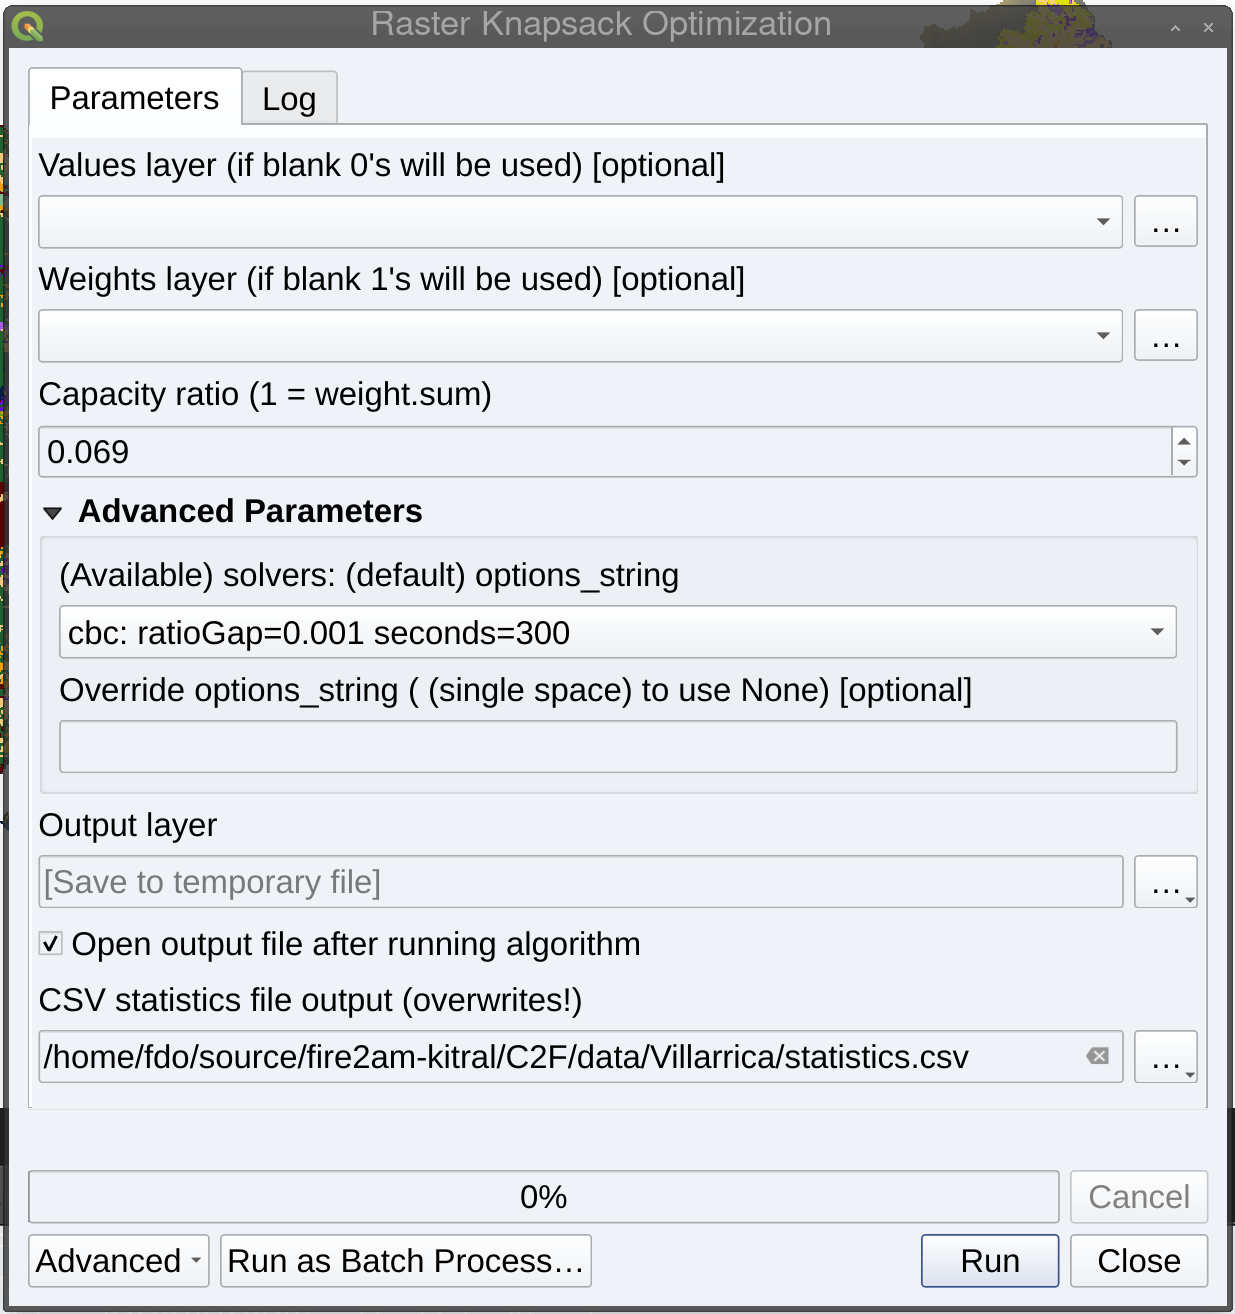
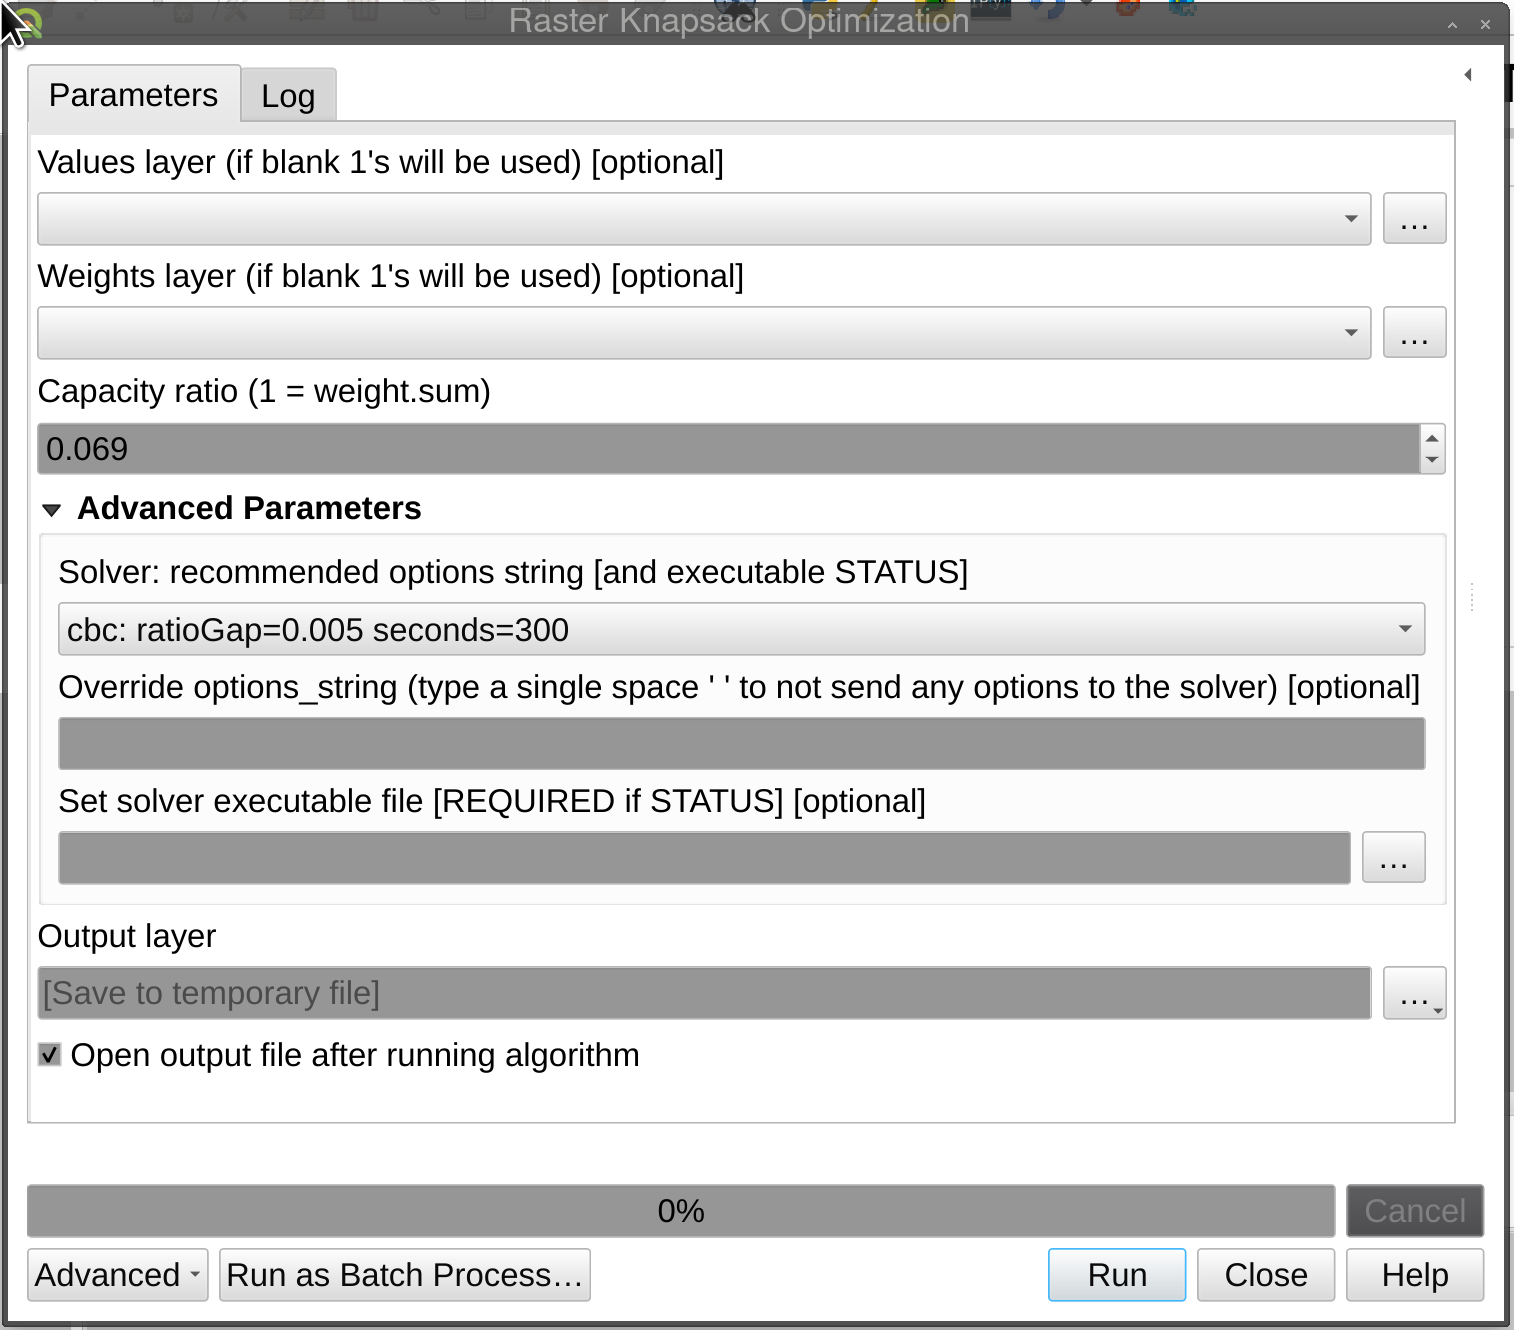
update

diff --git a/docs/FireAnalyticsManagementTools/README.md b/docs/FireAnalyticsManagementTools/README.md
@@ -3,44 +3,64 @@ layout: default
 title: Fire2a QGIS-Toolbox
 nav_order: 3
 has_children: true
+has_toc : false
 ---
+# Fire2a QGIS-Toolbox
 
-     Forest Fires Advanced Analytics & Management Tools
-        
-           QGIS Processing Plugin Template
-                
-            by fire2a.com research centre
+This type of plugins are designed following a data pipeline architecture principle. 
+With clearly delimited components: input, output, algorithm and context; it achieves a better integration with QGIS APIs, providing 3 different interfaces:
+1. A window dialog on the [processing toolbox](https://docs.qgis.org/latest/en/docs/user_manual/processing/toolbox.html) interface
+2. A [command line interface](https://docs.qgis.org/latest/en/docs/user_manual/processing/standalone) using `$ qgis_process`
+3. A python interface that can be used either 
+    on the [QGIS console](#script-in-qgis-console)
+    or as a [standalone](https://raw.githubusercontent.com/fdobad/qgis-processingplugin-template/main/standalone.py) script.
+4. Modeler interface component? (not sure about this one)
 
-                     version=
+The idea behind this architecture is that the user composes its own pipeline, combining different algorithms to achieve their goal. This is a more flexible, reusable, scalable and easier to mantain approach than independent QGIS plugins, where each one is designed to a specific need with custom inputs, outputs and behavior. Making it nearly impossible to use them outside the window dialog mode less combining them.
 
+Currently 
 [This repo](https://github.com/fdobad/qgis-processingplugin-template) is a template for QGIS processing toolbox [plugins](https://plugins.qgis.org).
-
-Its main content is a proof-of-concept integration between QGIS rasters and a knapsack optimization MIP model.
+# Algorithms
+## Raster knapsack optimization
+### Intro
+_A proof-of-concept integration of mathematical programming solvers to model and solve optimization problems with GIS entities._
 
 Users can create a new raster layer that selects the most valuable pixels in a raster, according to a capacity constraint defined by another -optional- raster and a fractional ratio.
 
-This can be achieved in four ways:
-- Graphically on the [processing toolbox](https://docs.qgis.org/latest/en/docs/user_manual/processing/toolbox.html) interface, 
-- On the [command line](https://docs.qgis.org/latest/en/docs/user_manual/processing/standalone) using `$ qgis_process`
-- Or in python scripts [qgis console](#script-in-qgis-console) or [standalone](https://raw.githubusercontent.com/fdobad/qgis-processingplugin-template/main/standalone.py).
-
-Finally several solvers can be used (cbc, glpk, cplex_direct, ipopt, TODO gurobi, scipy), thanks to the MIP being modeled and solved through [pyomo](http://www.pyomo.org). Though is up to the user to install each solver, the plugin checks for availability before displaying them in the solver chooser comboBox. Also a solver options string is optionally configurable (i.e., set precision and time limits)
-
-__Installation instructions [here](./plugin_installation.md)__  
-__QGIS-plugin-repo [link](./plugins.xml)__  
+Several solvers can be used (cbc, glpk, cplex_direct, gurobi, ipopt, NEOS, etc.), thanks to the MIP being modeled and solved through [pyomo](http://www.pyomo.org).
 
 | screenshot |
 | --- |
 |<img src="img/screenshot.png"  alt='cannot load image' height=400px >|
 
+### Detailed description
+By selecting a Values layer and/or a Weights layer, and setting the bound on the total capacity, a layer that maximizes the sum of the values of the selected pixels is created.
+
+The capacity constraint is set up by choosing a ratio (between 0 and 1), that multiplies the sum of all weights (except no-data). Hence 1 selects all pixels that aren't no-data in both layers.
+
+This raster knapsack problem is NP-hard, so a MIP solver engine is used to find "nearly" the optimal solution, because -often- is asymptotically hard to prove the optimal value. So a default gap of 0.5% and a timelimit of 5 minutes cuts off the solver run. The user can experiment with these parameters to trade-off between accuracy, speed and instance size(*). On Windows closing the blank terminal window will abort the run!
+
+By using Pyomo, several MIP solvers can be used: CBC, GLPK, Gurobi, CPLEX or Ipopt; If they're accessible through the system PATH, else the executable file can be selected by the user.
+
+Installation of solvers is up to the user, although the windows version is bundled with CBC unsigned binaries, so their users will face a "Windows protected your PC" warning, please avoid pressing the "Don't run" button, follow the "More info" link, scroll then press "Run anyway".
+
+(*): Complexity can be reduced greatly by rescaling and/or rounding values into integers, or even better coarsing the raster resolution (see gdal translate resolution).
+
+__Installation instructions [here](./plugin_installation.md)__  
+__QGIS-plugin-repo [link](./plugins.xml)__  
+
 # Usage
-## Graphical
+## window dialog
 1. Open QGIS Processing Toolbox (the cog icon)
 2. Type or navigate to: Fire2a > Raster Knapsack Optimization
 3. Select one or two layers, input the capacity ratio
 4. Click Run
 
-## Script in QGIS Console
+## command line
+
+## standalone script
+
+## script in QGIS Console
 ```
 from qgis import processing
 result = processing.run(

diff --git a/docs/qgis/README.md b/docs/qgis/README.md
@@ -21,11 +21,55 @@ nav_order: 4
 2. Python scripting
 3. Development guides
 
+# Plugin Management
+## Installation
+Plugins can be installed from QGIS official plugin [portal](https://plugins.qgis.org/), from a [custom repo](#adding-a-custom-plugin-repo) server or by [placing a folder](#placing-a-folder) on the proper place.  
+QGIS does not handle plugin dependencies, so is up to the user to install them, this is covered extensively for python on [windows](#windows-python-environment) or [linux](#linux-python-environment).
+
+### select and install
+1. On QGIS MenuBar: Plugins > Manage and Install Plugins... > All  
+2. Type the plugin name
+3. Click Install  
+An example install is made at the end of [next section](#anchor)
+
+### adding a custom plugin repo
+1. On QGIS MenuBar: Plugins > Manage and Install Plugins... > Settings > Add... (button at the bottom right of Plugin Repositories section)  
+1. 'Repository details' dialog opens, fill form inputs:  
+ Name: any, though "Fire2a" is suggested  
+ URL: https://fdobad.github.io/qgis-processingplugin-template/plugins.xml (will change)
+1. Confirm (Ok button), repos will be reloaded and a success state should be seen from the fire2a repository
+
+<a name="anchor">
+![](./img/install_plugin_server.gif)
+</a>
+
+### placing a folder
+Download & unzip a release from the repo [releases](https://github.com/fdobad/qgis-processingplugin-template/releases) section  
+Example: Unzip `example_plugin_v1.2.3.zip`, inside, a folder named `example_plugin` must be moved to: 
+```
+# linux (symbolic link it!)
+~/.local/share/QGIS/QGIS3/profiles/default/python/plugins/example_plugin
+# windows
+%APPDATA%\QGIS\QGIS3\profiles\default\python\plugins\example_plugin
+```
+Now [select & install](#select-and-install)
+
+## Update
+If the plugin is installed via a repo server url, updates will be prompted in QGIS's message bar. Else removing and reinstalling is recommended.
+## Remove
+If the plugin is installed via a repo server url, removing is easy as pressing uninstall on the plugin's description page. Else the folder must be manually deleted.
+NOTE: Removing a repo server url does not remove installed plugins.
+
 # Linux 🗽
 ## install
-* On Debian Gnome getting the Long Term Release (LTR) is easy as: `Super (or Meta) Key > type 'QGIS' > Click 'Install' on the Software app dialog`
+* On Debian getting the Long Term Release (LTR) is easy as: 
+    * Gnome: `Super (or Meta) Key > type 'QGIS' > Click 'Install' on the Software app dialog`
+    * Synaptic: search for qgis, click install
+    * Terminal: `sudo apt install qgis qgis-plugin-grass`
+    * _Check the following link if you want the latest release instead of stable LTR_
 * [Other distributions](https://qgis.org/en/site/forusers/alldownloads.html#linux)
 
+<a id="linux-python-environment"></a>
 ## python environment
 
 {: .critical}
@@ -113,7 +157,9 @@ On your keyboard press the 'Win' button > type 'cmd' > 2dary click on the app > 
 The `--scope machine` option is recommended to making launcher icons for all users
 3. Follow on screen instructions (all defaults are ok)
 
+<a id="windows-python-environment"></a>
 ## python environment
+
 QGIS comes bundled with its own python that's set up in a special way to integrate with all QGIS components such as PyQt, GDAL, GRASS, etc. So activating it is not as simple as running `Scripts/activate.bat`.
 
 ### installing requirements

diff --git a/docs/Cell2Fire/README.md b/docs/Cell2Fire/README.md
@@ -2,10 +2,19 @@
 layout: default
 title: Cell2Fire++
 nav_order: 1
-has_children: false
+has_children: true
 has_toc: false
 ---
 # Cell2Fire++
+{: .no_toc}
+<details closed markdown="block">
+  <summary>
+    Table of contents
+  </summary>
+  {: .text-delta }
+1. TOC
+{:toc}
+</details>
 
 Coming soon: We are working towards unifying the c++ backend.
 
@@ -31,25 +40,12 @@ And the [OG](https://github.com/cell2fire/Cell2Fire/)
 ## Canadian Forest Fire Behavior Prediction System
 
 |:-------------|:------------------|
-| Dogrib forest Canada ![](./img/c2fFBP-Example4.png) | shortest paths propagation ![](./img/c2fFBP-Example1.png) |
-| Shortest paths propagation and ROS intensity ![](./img/c2fFBP-Example2.png) | Burn-Probability ![](./img/c2fFBP-Example3.png) |
+| Dogrib forest, Canada ![](./img/c2fFBP-Example4.png){: width="100%" } | shortest paths propagation ![](./img/c2fFBP-Example1.png){: width="80%" } |
+| Shortest paths propagation and ROS intensity ![](./img/c2fFBP-Example2.png){: width="100%" } | Burn-Probability ![](./img/c2fFBP-Example3.png){: width="80%" } |
 
 # Compiling
 ## Linux
-A Cell2Fire++ binary is provided with the release; anyway to compile it:
-```bash
-sudo apt install g++ libboost-all-dev libeigen3-dev
-cd C2FSB/Cell2FireC
-make clean
-make 
-```  
-If it fails, is probably the `makefile` assuming `EIGENDIR = /usr/include/eigen3/`  
-Locate where your distribution installs `eigen`, either using the command `nice find / -readable -type d -name eigen3 2>/dev/null` or check your distribution's documentation for `libeigen3-dev` package [^1] [^2]. Edit `makefile` accordingly, then try making again. 
+[Make](compile_linux.html)
 
 ## Windows
-[Using Visual Studio](README_VisualStudio.html)
-
-----
-
-[^1]: https://packages.debian.org/bookworm/all/libeigen3-dev/filelist
-[^2]: https://packages.ubuntu.com/search?keywords=libeigen3-dev
+[Using Visual Studio](compile_windows.html)

diff --git a/docs/Cell2Fire/compile_linux.md b/docs/Cell2Fire/compile_linux.md
@@ -1,0 +1,23 @@
+---
+layout: default
+title: compiling on Linux
+nav_order: 1
+parent: Cell2Fire++
+has_children: false
+has_toc: false
+---
+# Compile on Linux
+A Cell2Fire++ binary is provided with the release; though to compile it:
+```bash
+sudo apt install g++ libboost-all-dev libeigen3-dev
+cd C2FSB/Cell2FireC
+make clean
+make 
+```  
+If it fails, is probably the `makefile` assuming `EIGENDIR = /usr/include/eigen3/`  
+Locate where your distribution installs `eigen`, either using the command `nice find / -readable -type d -name eigen3 2>/dev/null` or check your distribution's documentation for `libeigen3-dev` package [^1] [^2]. Edit `makefile` accordingly, then try making again. 
+
+----
+
+[^1]: https://packages.debian.org/bookworm/all/libeigen3-dev/filelist
+[^2]: https://packages.ubuntu.com/search?keywords=libeigen3-dev

diff --git a/docs/Cell2Fire/compile_windows.md b/docs/Cell2Fire/compile_windows.md
@@ -1,7 +1,8 @@
 ---
 layout: default
-title: compile using Visual Studio
-nav_order: 99
+title: compiling with Visual Studio
+nav_order: 2
+parent: Cell2Fire++
 has_children: false
 has_toc: false
 ---
